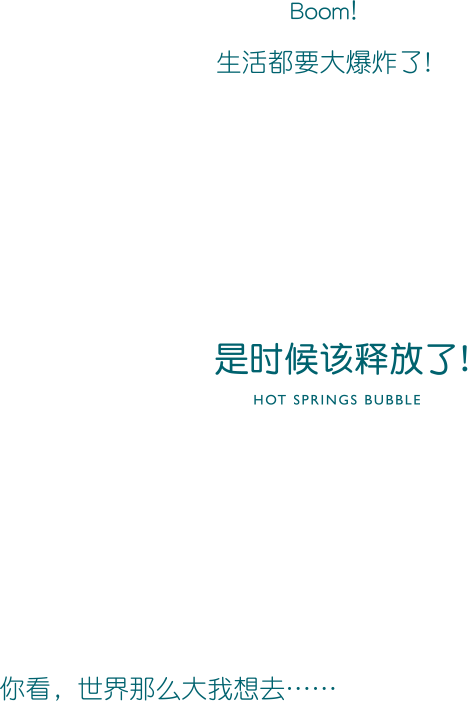
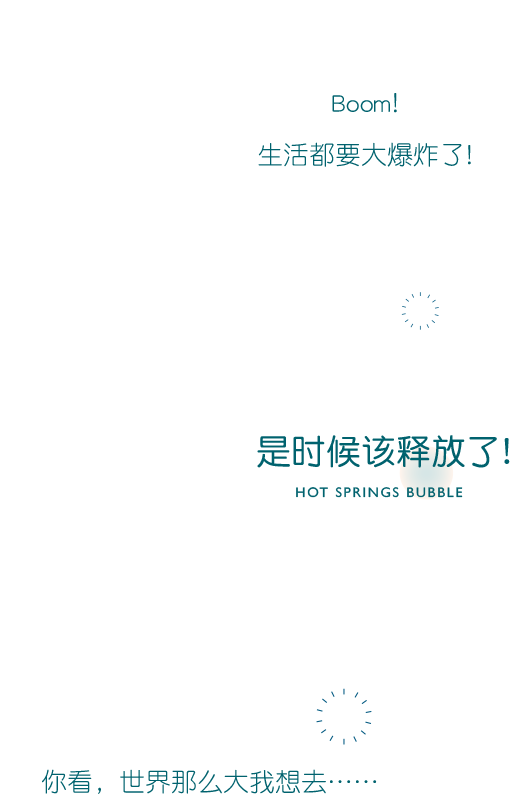
page 3 paopao flow

diff --git a/static/zxs/Tpl/Public/css/main.css b/static/zxs/Tpl/Public/css/main.css
@@ -183,11 +183,10 @@ body {
 .txt2a{width:253px; height:253px; background:url(../images/txt2a.png) no-repeat center center; margin-left:-250px; margin-top:-450px; z-index: 99}
 
 .page3{position:absolute; left:0; top:0; width: 100%; height: 100%; background: url("../images/page3_bg.jpg") no-repeat center center; background-size: 100% 100%;}
-.txt3{width:468px; height:701px; background:url(../images/txt3.png) no-repeat center center; margin-left:-290px; margin-top:-400px; }
+.txt3{width:528px; height:794px; background:url(../images/txt3.png) no-repeat center center; margin-left:-250px; margin-top:-500px; }
 
 .page4{position:absolute; left:0; top:0; width: 100%; height: 100%; background: url("../images/page4_bg.jpg") no-repeat center center; background-size:  100% 100%;}
 .txt4{width:395px; height:292px; background:url(../images/txt4.png) no-repeat center center; margin-left:-226px; margin-top:-500px; }
-.txt4a{width:233px; height:412px; background:url(../images/txt4a.png) no-repeat center center; margin-left:0px; margin-top:-100px; }
 
 .page5{position:absolute; left:0; top:0; width: 100%; height: 100%; background: url("../images/page5_bg.jpg") no-repeat center center; background-size:  100% 100%;}
 .txt5{width:441px; height:794px; background:url(../images/txt5.png) no-repeat center center; margin-left:-269px; margin-top:-500px; }
@@ -356,3 +355,27 @@ body {
   opacity: 1;
   z-index: 99;
 }
+
+@-webkit-keyframes txt4a-animation {
+  0% { margin-left:0px; margin-top:-100px; }
+  25% { margin-left:-50px; margin-top:-100px; }
+  50% { margin-left:-0px; margin-top:-50px; }
+  75% { margin-left:-50px; margin-top:-150px; }
+  100% { margin-left:0px; margin-top:-100px; }
+}
+.txt4a {
+  position: absolute;
+  width: 233px;
+  height: 412px;
+  margin-left:0px; margin-top:-100px;
+  /*display: block;*/
+  /*background-image: url("../images/ppr.png");*/
+  background:url(../images/txt4a.png) no-repeat center center;
+  /*background-size: 100% 100%;*/
+  -webkit-animation: txt4a-animation 8s infinite linear;
+  opacity: 1;
+  z-index: 99;
+}
+/*
+.txt4a{width:233px; height:412px; background:url(../images/txt4a.png) no-repeat center center; margin-left:0px; margin-top:-100px; }
+*/

diff --git a/static/zxs/index.html b/static/zxs/index.html
@@ -6,7 +6,7 @@
 	<!-- /Added by HTTrack -->
 	<head>
 		<meta charset="UTF-8">
-		<title>中信墅</title>
+		<title>牛驼温泉孔雀城温泉泡泡节</title>
 		<link rel="stylesheet" type="text/css" href="Tpl/Public/css/main.css"/>
 		<meta name="apple-touch-fullscreen" content="yes">
 		<meta name="format-detection" content="telephone=no">

diff --git a/static.py b/static.py
@@ -20,7 +20,7 @@ class signup:
         print i.name.encode('utf8')
         print i.gender.encode('utf8')
         print i.phone.encode('utf8')
-        output = open('output.csv','a')
+        output = open('static/output.csv','a')
         fcntl.flock(output, fcntl.LOCK_EX)
         output.write(i.name+','+i.gender+','+i.phone+'\n')
         output.flush()
